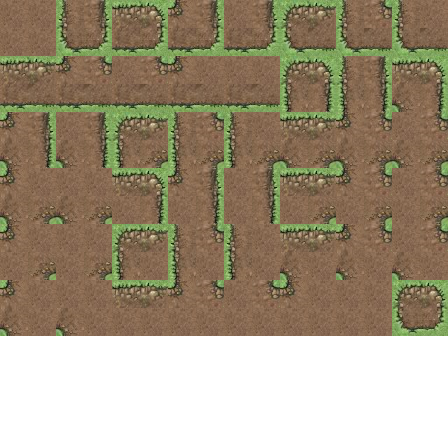
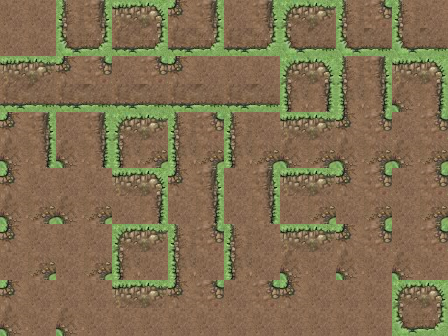
Updated Sprites

diff --git a/src/entity/mine.js b/src/entity/mine.js
@@ -70,9 +70,9 @@ Mine.prototype.getJammerFlag = function() {
 
 Mine.prototype.getTileSprite = function() {
     switch(this.config.id) {
-        case MINE_TYPE.LAND: return TILE_ID.VOLANO;
-        case MINE_TYPE.SEA: return TILE_ID.VOLANO;
-        default: return TILE_ID.VOLANO;
+        case MINE_TYPE.LAND: return TILE_ID.MINE_LAND;
+        case MINE_TYPE.SEA: return TILE_ID.MINE_SEA;
+        default: return TILE_ID.JAMMER;
     }
 }
 

diff --git a/src/camera/battalionCamera.js b/src/camera/battalionCamera.js
@@ -423,8 +423,6 @@ BattalionCamera.prototype.update = function(gameContext, display) {
         this.debugMap(display, worldMap);
         this.drawInfo(gameContext, display, tiles, sprites, overlays, other);
     }
-
-    this.currentFrame++;
 }
 
 BattalionCamera.prototype.shadeScreen = function(display, color, alpha) {

diff --git a/engine/camera/camera2D.js b/engine/camera/camera2D.js
@@ -516,4 +516,5 @@ Camera2D.prototype.updateWorldBounds = function(width, height) {
     this.startY = clampValue(startY, this.mapHeight - 1, 0);
     this.endX = clampValue(endX, this.mapWidth - 1, 0);
     this.endY = clampValue(endY, this.mapHeight - 1, 0);
+    this.currentFrame++;
 }

diff --git a/src/enums.js b/src/enums.js
@@ -603,7 +603,10 @@ export const TILE_ID = {
     RAIL_0: 168,
     RAIL_15: 183,
 
-    _COUNT: 184
+    MINE_LAND: 184,
+    MINE_SEA: 185,
+
+    _COUNT: 186
 };
 
 export const DIRECTION = {
